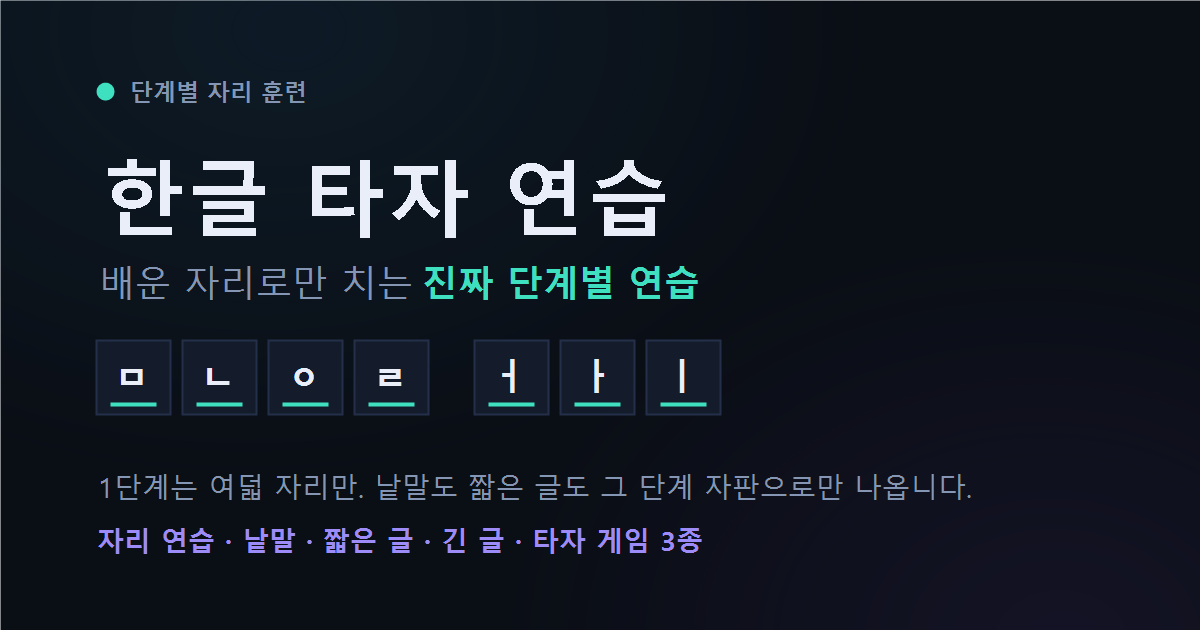
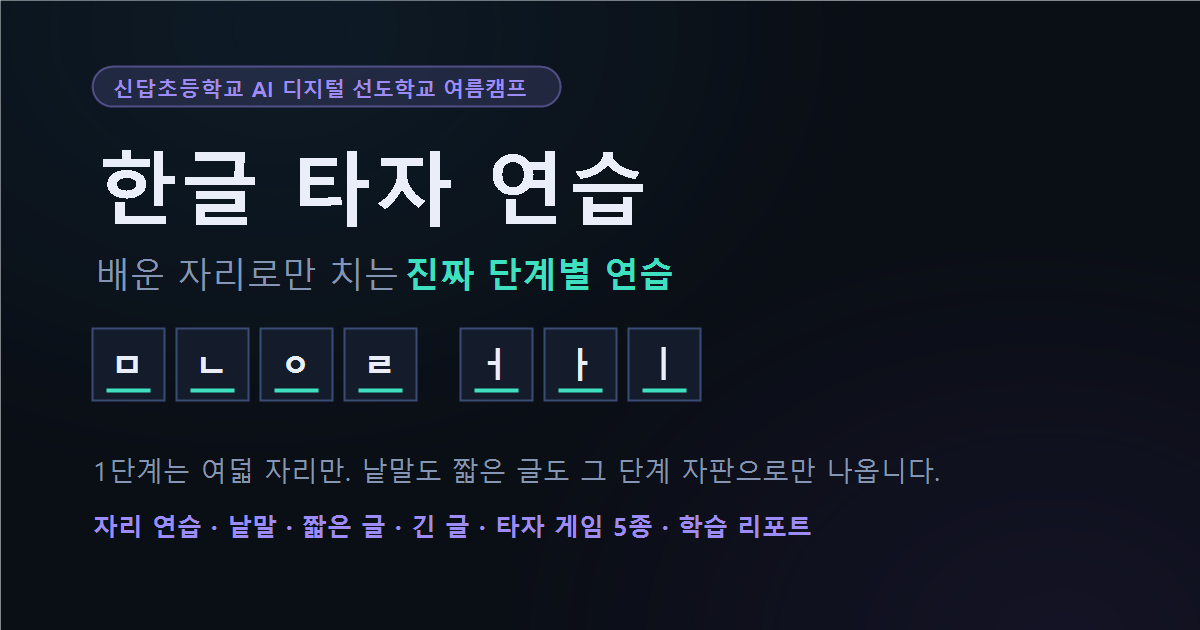
og 이미지 갱신, 파비콘 png 추가, 공유 메타 태그 절대 주소로 수정

diff --git a/index.html b/index.html
@@ -3,13 +3,31 @@
 <head>
 <meta charset="UTF-8">
 <meta name="viewport" content="width=device-width, initial-scale=1">
-<title>한글 타자 연습 · 단계별 자리 연습</title>
-<meta name="description" content="손가락 자리 순서대로 자판이 늘어나는 한글 타자 연습. 자리연습부터 낱말·짧은글·긴글, 타자 게임까지.">
-<meta property="og:title" content="한글 타자 연습">
-<meta property="og:description" content="1단계 ㅁㄴㅇㄹ ㅓㅏㅣ 부터 차근차근. 그 단계 자판으로만 만든 낱말로 연습합니다.">
+<title>한글 타자 연습 · 신답초 여름캠프</title>
+<meta name="description" content="손가락 자리 순서대로 자판이 늘어나는 한글 타자 연습. 자리연습부터 낱말·짧은글·긴글, 타자 게임 5종과 학습 리포트까지.">
+<meta name="theme-color" content="#0a0e15">
+
+<!-- 카카오톡·페이스북 공유용.
+     og:image 는 반드시 절대 주소여야 한다. 상대 경로로 두면 크롤러가 못 찾는다. -->
 <meta property="og:type" content="website">
-<meta property="og:image" content="og.png">
+<meta property="og:site_name" content="한글 타자 연습">
+<meta property="og:locale" content="ko_KR">
+<meta property="og:url" content="https://hangul-typing-xi.vercel.app/">
+<meta property="og:title" content="한글 타자 연습 · 신답초 여름캠프">
+<meta property="og:description" content="1단계 ㅁㄴㅇㄹ ㅓㅏㅣ 부터 차근차근. 그 단계 자판으로만 만든 낱말이 나옵니다.">
+<meta property="og:image" content="https://hangul-typing-xi.vercel.app/og.png">
+<meta property="og:image:type" content="image/png">
+<meta property="og:image:width" content="1200">
+<meta property="og:image:height" content="630">
+<meta property="og:image:alt" content="한글 타자 연습 — 배운 자리로만 치는 진짜 단계별 연습">
+<meta name="twitter:card" content="summary_large_image">
+<meta name="twitter:title" content="한글 타자 연습 · 신답초 여름캠프">
+<meta name="twitter:description" content="1단계 ㅁㄴㅇㄹ ㅓㅏㅣ 부터 차근차근. 그 단계 자판으로만 만든 낱말이 나옵니다.">
+<meta name="twitter:image" content="https://hangul-typing-xi.vercel.app/og.png">
+
 <link rel="icon" href="favicon.svg" type="image/svg+xml">
+<link rel="icon" href="favicon-32.png" sizes="32x32" type="image/png">
+<link rel="apple-touch-icon" href="apple-touch-icon.png">
 <link rel="stylesheet" href="css/style.css?v=3">
 </head>
 <body>
